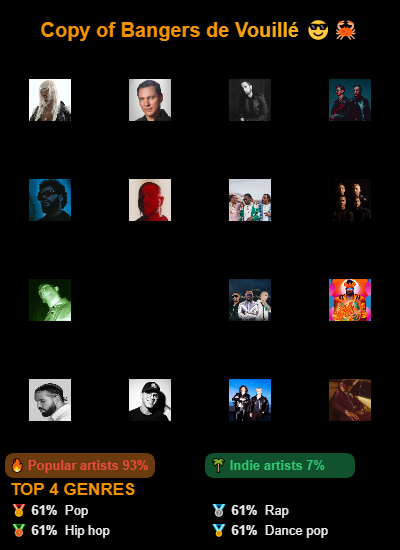
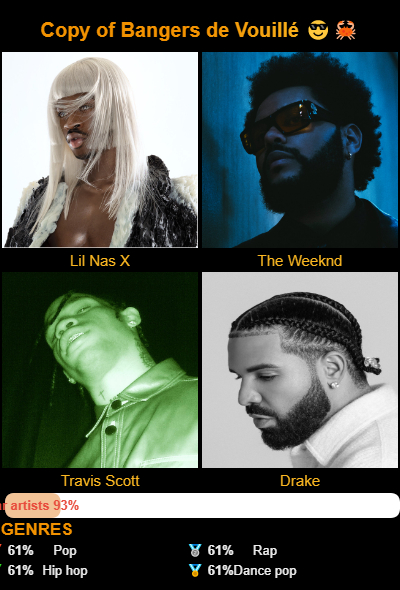
Huge improvement of export image design

diff --git a/src/services/playlistImageMaker.ts b/src/services/playlistImageMaker.ts
@@ -4,6 +4,17 @@ import { usePlaylistsStore } from '@/stores/playlists'
 import { capitalize } from '@/utils/functions'
 import drawRoundRect from './utils'
 
+export const downloadImage = (url: string, playlistName: string) => {
+  const a = document.createElement('a')
+  a.download = `${playlistName}.jpg`
+  a.rel = 'noopener'
+  a.target = '_blank'
+
+  a.href = url
+  a.click()
+  a.remove()
+}
+
 export const makeImage = (
   playlistId: string,
   size: string | number,
@@ -85,7 +96,7 @@ const createCanvas = (
   ctx.fillRect(0, 0, canvas.width, canvas.height)
 
   if (showTitle) {
-    addCanvasTitle(ctx, playlist)
+    addCanvasTitle(ctx, playlist, gridSize)
   }
   addCanvasArtistImages(ctx, artistNames, images, gridSize, IMAGE_BLOCK_HEIGHT_START, ARTIST_NAME_HEIGHT)
   if (showStats) {
@@ -97,16 +108,19 @@ const createCanvas = (
 
 const addCanvasTitle = (
   ctx: CanvasRenderingContext2D,
-  playlist: SpotifyPlaylist
+  playlist: SpotifyPlaylist,
+  gridSize: number
 ) => {
   let fontSize: number
   const characterLength = playlist.name.length
-  if (characterLength < 10) fontSize = 40
-  else if (characterLength < 20) fontSize = 30
+  // TODO: Adjust and do some fine tunning
+  if (characterLength < 10) fontSize = 35
+  else if (characterLength < 20) fontSize = 25
   else if (characterLength < 30) fontSize = 25
   else if (characterLength < 40) fontSize = 20
   else fontSize = 15
 
+  // Main title : Playlist name
   ctx.font = `bolder ${fontSize}px Arial`
   ctx.textAlign = 'center'
 
@@ -116,7 +130,19 @@ const addCanvasTitle = (
   gradient.addColorStop(1, '#F9B621')
   ctx.fillStyle = gradient
 
-  ctx.fillText(playlist.name, 400 / 2, 30 + fontSize / 3)
+  ctx.fillText(playlist.name, 400 / 2, 25 + fontSize / 3)
+
+  // Subtitle : explanatory
+  ctx.font = `bolder 10px Arial`
+  ctx.textAlign = 'center'
+
+  const subtxtWidth = ctx.measureText(playlist.name).width
+  const subGradient = ctx.createLinearGradient(400 / 2, 40, txtWidth, 25)
+  subGradient.addColorStop(0, '#F39200')
+  subGradient.addColorStop(1, '#F9B621')
+  ctx.fillStyle = subGradient
+
+  ctx.fillText(`%% ${gridSize ** 2} most popular playlist artists %%`, 400 / 2, 40 + fontSize / 3)
 }
 
 const addCanvasArtistImages = (
@@ -160,34 +186,68 @@ const addCanvasLegend = (
   yStart: number
 ) => {
   const playlistsStore = usePlaylistsStore()
+  ctx.textAlign = 'start'
 
   // 1. INDIE PERCENTAGES
-  const percentage = playlistsStore.getIndiePercentage(playlist.id)
-  // 1.1 Popular
-  ctx.fillStyle = '#e67e2277'
-  drawRoundRect(ctx, 5, yStart + 3, 150, 25, 10, true, false)
+  const indiePercentage = playlistsStore.getIndiePercentage(playlist.id)
+  if (indiePercentage > 70) {
+    // Only indie percentage
+    ctx.fillStyle = '#fff'
+    drawRoundRect(ctx, 5, yStart + 3, 395, 25, 10, true, false)
+    ctx.fillStyle = '#27ae6077'
+    drawRoundRect(ctx, 5, yStart + 3, 390 * indiePercentage / 100, 25, 10, true, false)
 
-  const popularText = `${VueI18n.tc('track.popular', 2)} ${100 - percentage}%`
-  ctx.font = `bolder ${13}px Arial`
-  ctx.textAlign = 'start'
-  const popularGradient = ctx.createLinearGradient(300, 40, 500, 40)
-  popularGradient.addColorStop(0, '#e74c3c')
-  popularGradient.addColorStop(1, '#e67e22')
-  ctx.fillStyle = popularGradient
-  ctx.fillText(popularText, 10, yStart + 20)
+    const indieText = `${VueI18n.tc('track.indie', 2)} ${indiePercentage}%`
+    ctx.font = `bolder ${13}px Arial`
 
-  // 1.2 Indie
-  ctx.fillStyle = '#27ae6077'
-  drawRoundRect(ctx, 205, yStart + 3, 150, 25, 10, true, false)
+    const indieGradient = ctx.createLinearGradient(300, 40, 500, 40)
+    indieGradient.addColorStop(0, '#2ecc71')
+    indieGradient.addColorStop(1, '#27ae60')
+    ctx.fillStyle = indieGradient
+    ctx.fillText(indieText, 10, yStart + 20)
+  } else if (indiePercentage < 30) {
+    // Only popular percentage
+    ctx.fillStyle = '#fff'
+    drawRoundRect(ctx, 5, yStart + 3, 395, 25, 10, true, false)
+    ctx.fillStyle = '#e67e2277'
+    drawRoundRect(ctx, 5, yStart + 3, 390 * (100 - indiePercentage) / 100, 25, 10, true, false)
 
-  const indieText = `${VueI18n.tc('track.indie', 2)} ${percentage}%`
-  ctx.font = `bolder ${13}px Arial`
+    const popularText = `${VueI18n.tc('track.popular', 2)} ${100 - indiePercentage}%`
+    ctx.font = `bolder ${13}px Arial`
 
-  const indieGradient = ctx.createLinearGradient(300, 40, 500, 40)
-  indieGradient.addColorStop(0, '#2ecc71')
-  indieGradient.addColorStop(1, '#27ae60')
-  ctx.fillStyle = indieGradient
-  ctx.fillText(indieText, 210, yStart + 20)
+    const popularGradient = ctx.createLinearGradient(300, 40, 500, 40)
+    popularGradient.addColorStop(0, '#e74c3c')
+    popularGradient.addColorStop(1, '#e67e22')
+    ctx.fillStyle = popularGradient
+    ctx.fillText(popularText, 10, yStart + 20)
+  } else {
+    // Popular
+    ctx.fillStyle = '#e67e2277'
+    drawRoundRect(ctx, 5, yStart + 3, 390 * (100 - indiePercentage) / 100, 25, 10, true, false)
+
+    const popularText = `${VueI18n.tc('track.popular', 2)} ${100 - indiePercentage}%`
+    ctx.font = `bolder ${13}px Arial`
+    ctx.textAlign = 'start'
+    const popularGradient = ctx.createLinearGradient(300, 40, 500, 40)
+    popularGradient.addColorStop(0, '#e74c3c')
+    popularGradient.addColorStop(1, '#e67e22')
+    ctx.fillStyle = popularGradient
+    ctx.fillText(popularText, 10, yStart + 20)
+
+    // Indie
+    ctx.fillStyle = '#27ae6077'
+    drawRoundRect(ctx, 390 * (100 - indiePercentage) / 100 + 5, yStart + 3, 390 * indiePercentage / 100, 25, 10, true, false)
+
+    const indieText = `${VueI18n.tc('track.indie', 2)} ${indiePercentage}%`
+    ctx.font = `bolder ${13}px Arial`
+    ctx.textAlign = "end"
+
+    const indieGradient = ctx.createLinearGradient(300, 40, 500, 40)
+    indieGradient.addColorStop(0, '#2ecc71')
+    indieGradient.addColorStop(1, '#27ae60')
+    ctx.fillStyle = indieGradient
+    ctx.fillText(indieText, 385, yStart + 20)
+  }
 
   // 2. Adding TOP Genres
   // Genres
@@ -195,6 +255,7 @@ const addCanvasLegend = (
   // 3 -----  4 -----
   ctx.font = 'bolder 17px Arial'
   ctx.fillStyle = '#F39200'
+  ctx.textAlign = "start"
   ctx.fillText('TOP 4 GENRES', 10, yStart + 45)
 
   ctx.font = '13px Arial'
@@ -217,15 +278,4 @@ const getEmojiForRank = (rank: number): string => {
   if (rank === 1) return '🥈'
   if (rank === 2) return '🥉'
   return '🏅'
-}
-
-export const downloadImage = (url: string, playlistName: string) => {
-  const a = document.createElement('a')
-  a.download = `${playlistName}.jpg`
-  a.rel = 'noopener'
-  a.target = '_blank'
-
-  a.href = url
-  a.click()
-  a.remove()
 }

diff --git a/src/components/playlist_detail/ActionDrawer.vue b/src/components/playlist_detail/ActionDrawer.vue
@@ -72,10 +72,8 @@
           {{ $t('drawer.export-image') }}
         </v-list-subheader>
         <!-- 3.1 Export Image -->
-        <v-slider v-if="maxTick > 0" :ticks="ticks" :max="maxTick" step="1" show-ticks="always" tick-size="4"
-          color="var(--text-color)" prepend-icon="mdi-arrange-send-to-back" v-model="generateImageSize" @touchstart.stop
-          id="generate-image-size-slider">
-        </v-slider>
+
+        <v-img id="live-image-preview" :src="imagePreview"></v-img>
         <v-switch v-model="generateImageDisplayTitle" color="var(--text-color)" class="generate-image-switch">
           <template v-slot:label>
             <p :class="(generateImageDisplayTitle) ? 'rainbow-text' : ''">{{ $t('drawer.image-display-title') }}</p>
@@ -86,8 +84,10 @@
             <p :class="(generateImageDisplayStats) ? 'rainbow-text' : ''">{{ $t('drawer.image-display-stats') }}</p>
           </template>
         </v-switch>
-
-        <v-img :src="imagePreview"></v-img>
+        <v-slider v-if="maxTick > 0" :ticks="ticks" :max="maxTick" step="1" show-ticks="always" tick-size="4"
+          color="var(--text-color)" prepend-icon="mdi-arrange-send-to-back" v-model="generateImageSize" @touchstart.stop
+          id="generate-image-size-slider">
+        </v-slider>
         <div id="generate-image-button">
           <v-btn @click="exportArtistPreview" class="rainbow-v-btn">{{ $t("playlist.export-preview") }}</v-btn>
         </div>
@@ -304,5 +304,9 @@ export default defineComponent({
 #deletion-dialog {
   max-width: fit-content;
   margin: auto;
+}
+
+#live-image-preview .v-responsive__sizer {
+  padding-bottom: 100% !important;
 }
 </style>
